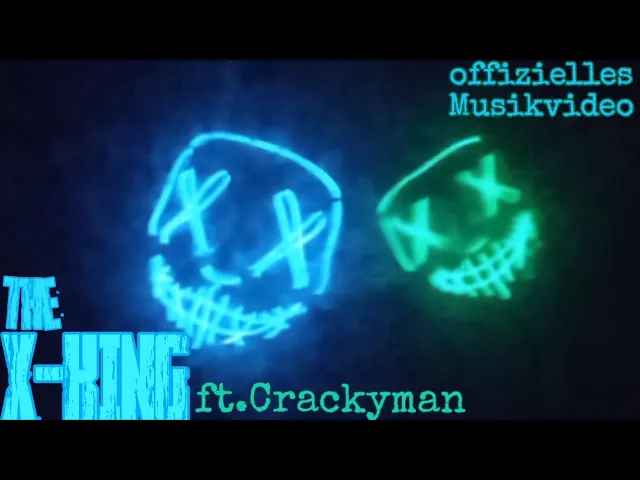
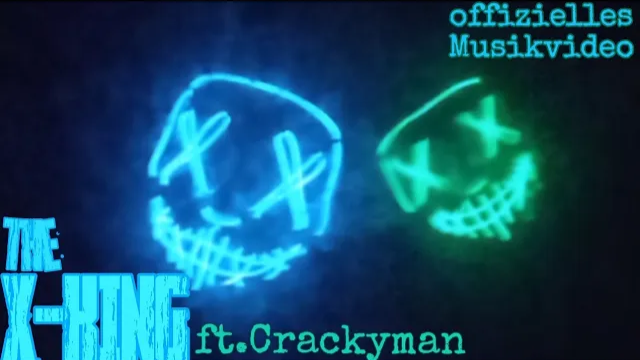
changed sizing from episodes page

diff --git a/src/app/pages/episodes/episodes.css b/src/app/pages/episodes/episodes.css
@@ -317,6 +317,159 @@
 }
 
 
+
+
+/* =========================
+   VIEW-SPECIFIC CONTENT SCALE
+
+   Wichtig:
+   Nur der Bereich UNTER dem Sticky-Header wird skaliert.
+   Header, Zurück, Ansichtswechsel und Filter bleiben 1:1 stehen.
+========================= */
+
+.episodes-view-shell {
+  flex: 1;
+  min-height: 0;
+
+  width: 100%;
+
+  overflow: hidden;
+}
+
+.episodes-view-scale {
+  width: 100%;
+  height: 100%;
+
+  min-height: 0;
+
+  display: flex;
+  flex-direction: column;
+
+  transform-origin: top center;
+}
+
+
+/*
+ * Desktop:
+ * Einzelansicht soll ungefähr wie Browser-Zoom 90 % wirken.
+ * Chronologie soll ungefähr wie Browser-Zoom 190 % wirken.
+ *
+ * Breite + Höhe werden jeweils gegengerechnet, damit der skalierte
+ * Bereich trotzdem exakt im verfügbaren Viewport unter dem Header bleibt.
+ */
+@media (min-width: 901px) {
+
+  .episodes-view-shell.is-carousel
+  .episodes-view-scale {
+    width: calc(100% / 0.9);
+    height: calc(100% / 0.9);
+
+    margin-left: calc((100% - (100% / 0.9)) / 2);
+
+    transform: scale(0.9);
+  }
+
+
+  .episodes-view-shell.is-timeline
+  .episodes-view-scale {
+    width: calc(100% / 1.9);
+    height: calc(100% / 1.9);
+
+    margin: 0 auto;
+
+    transform: scale(1.9);
+  }
+
+
+  /*
+   * Bei echtem Browser-Zoom ~190 % würde die Seite unter 900 CSS-px
+   * fallen und genau dieses kompaktere Timeline-Layout verwenden.
+   * Wir wenden es hier gezielt NUR auf die Chronologie an.
+   */
+
+  .episodes-view-shell.is-timeline
+  .timeline {
+    width: 100%;
+    height: 100%;
+
+    padding:
+      10px
+      12px
+      10px
+      0;
+  }
+
+
+  .episodes-view-shell.is-timeline
+  .timeline::before {
+    left: 18px;
+  }
+
+
+  .episodes-view-shell.is-timeline
+  .timeline-entry {
+    grid-template-columns:
+      38px
+      minmax(0, 1fr);
+
+    row-gap: 8px;
+
+    margin-bottom: 24px;
+  }
+
+
+  .episodes-view-shell.is-timeline
+  .timeline-entry:last-child {
+    margin-bottom: 0;
+  }
+
+
+  .episodes-view-shell.is-timeline
+  .timeline-marker {
+    grid-column: 1;
+    grid-row: 2;
+  }
+
+
+  .episodes-view-shell.is-timeline
+  .timeline-date {
+    grid-column: 2;
+    grid-row: 1;
+
+    text-align: left;
+  }
+
+
+  .episodes-view-shell.is-timeline
+  .timeline-card {
+    grid-column: 2;
+    grid-row: 2;
+  }
+
+}
+
+
+/*
+ * Auf Tablet/Mobile lassen wir die bestehenden Responsive-Regeln arbeiten.
+ * Dort gibt es KEIN zusätzliches künstliches Zoomen.
+ */
+@media (max-width: 900px) {
+
+  .episodes-view-shell,
+  .episodes-view-scale {
+    width: 100%;
+    height: 100%;
+  }
+
+  .episodes-view-scale {
+    margin: 0;
+    transform: none;
+  }
+
+}
+
+
+
 /* =========================
    EPISODE SHOWCASE
 ========================= */
@@ -782,6 +935,54 @@
   color: rgba(210, 220, 255, 0.5);
   font-size: 0.85rem;
   font-weight: 600;
+}
+
+
+
+
+/* =========================
+   TIMELINE SCROLLBAR
+
+   Eigene CSS-Scrollbar statt der nativen Windows/Browser-Leiste.
+   Dadurch skaliert sie beim Browser-Zoom mit dem Seiteninhalt
+   und wirkt bei 20 % nicht plötzlich riesig.
+========================= */
+
+.timeline {
+  scrollbar-width: thin;
+  scrollbar-color:
+    rgba(180, 190, 215, 0.55)
+    transparent;
+}
+
+.timeline::-webkit-scrollbar {
+  width: 10px;
+}
+
+.timeline::-webkit-scrollbar-track {
+  background: transparent;
+}
+
+.timeline::-webkit-scrollbar-thumb {
+  border-radius: 999px;
+
+  background:
+    rgba(
+      180,
+      190,
+      215,
+      0.55
+    );
+}
+
+.timeline::-webkit-scrollbar-thumb:hover {
+  background:
+    rgba(
+      205,
+      215,
+      240,
+      0.72
+    );
 }
 
 

diff --git a/src/app/pages/home/home.html b/src/app/pages/home/home.html
@@ -92,7 +92,7 @@
       <div class="menu-content">
 
         <nav class="menu-list">
-          <button class="menu-button">Start Abenteuer</button>
+          <button class="menu-button">Start Abenteuer <br> (in Arbeit) </button>
           <button class="menu-button" routerLink="/charaktere">Charaktere & Artefakte</button>
           <button class="menu-button" routerLink="/folgen">Alle Folgen</button>
           <button class="menu-button" routerLink="/extras">Extras & Filmrequisiten</button>

diff --git a/src/app/pages/episodes/episodes.html b/src/app/pages/episodes/episodes.html
@@ -152,6 +152,15 @@
   </div>
 
 
+  <!-- Nur der Bereich UNTER dem Sticky-Header wird je nach Ansicht skaliert. -->
+  <div
+    class="episodes-view-shell"
+    [class.is-carousel]="currentView === 'carousel'"
+    [class.is-timeline]="currentView === 'timeline'"
+  >
+    <div class="episodes-view-scale">
+
+
   <!-- =========================
        EINZELANSICHT
   ========================== -->
@@ -329,5 +338,8 @@
     }
 
   }
+
+    </div>
+  </div>
 
 </main>
